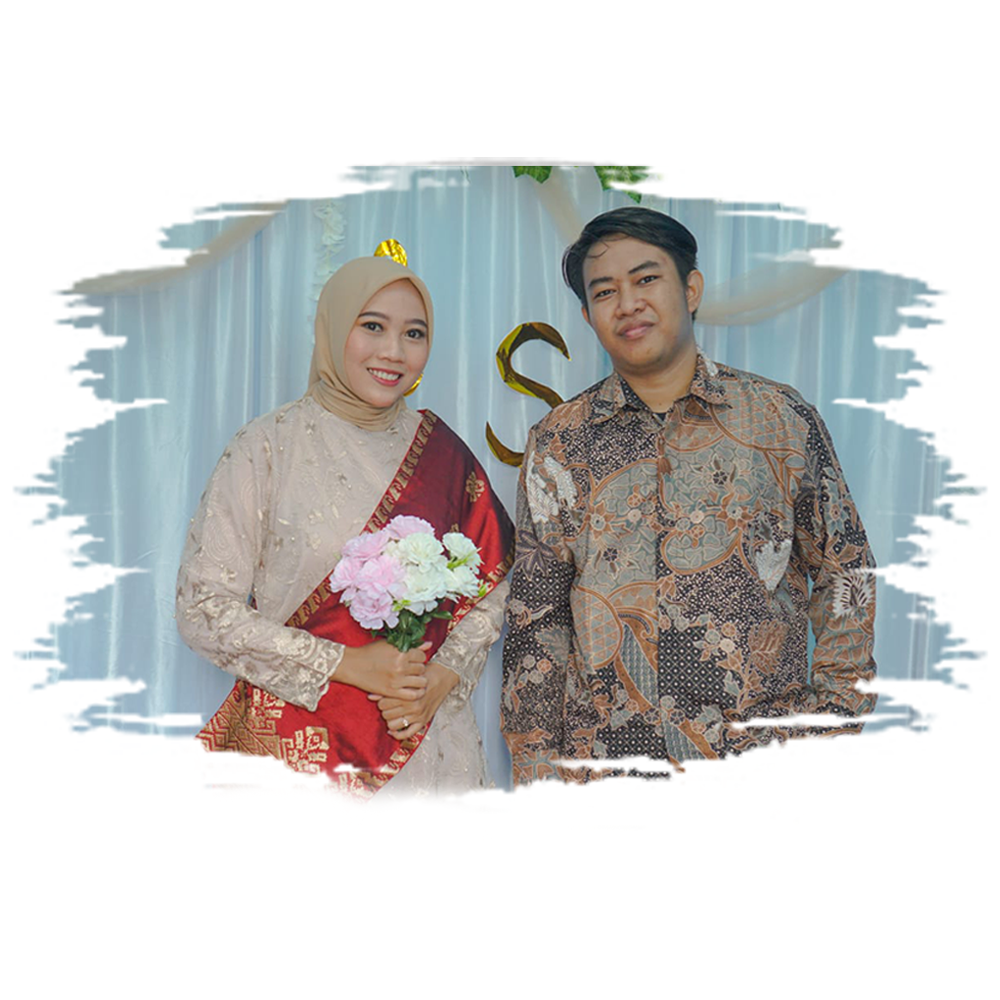
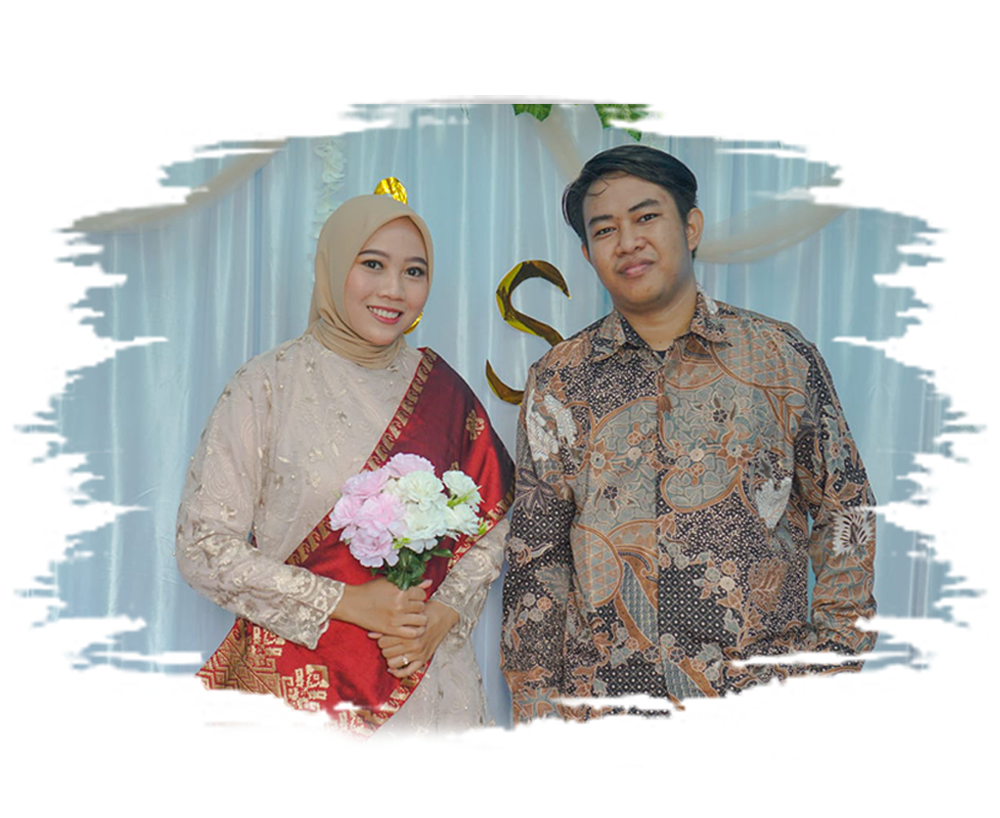
fix color

diff --git a/components/More.jsx b/components/More.jsx
@@ -4,6 +4,7 @@ import Image from "next/image"
 import { faGift, faClose, faCopy, faCreditCard, faMapLocation, faMap, } from "@fortawesome/free-solid-svg-icons"
 import { useState } from "react"
 import Comment from "./Comment"
+import DetailAcara from "./DetailAcara"
 
 export default function More(){
 
@@ -60,33 +61,9 @@ export default function More(){
         <div className='h-auto w-full sm:w-[540px] xl:w-4/12 bg-yellow-100 mt-2 flex flex-col items-center rounded-2xl pt-3 pb-11'>
 
             <Comment/>
+            <DetailAcara/>
             
-            <div className='h-[500px] w-11/12 rounded-lg mt-12 flex flex-col items-center px-5 shadow-lg relative'>
-                <div className='text-xl mt-9 z-10'>
-                    <FontAwesomeIcon icon={faMapLocation} className="fa-2xl"/>
-                </div>
-                <p className='font-bold font-qamila mt-4 z-10 text-3xl'>Detail Acara</p>
-                <p className='font-serif mt-2 z-10 text-2xl'>Minggu</p>
-                <p className='font-mono mt-4 z-10 text-3xl font-bold tanggal'>04</p>
-                <p className='font-serif mt-4 z-10 text-3xl font-semibold'>Desember 2022</p>
-                <p className='font-mono z-10 text-base'>PUKUL 11.00 WIB - SELESAI</p>
-                <p className='font-serif mt-4 z-10 text-3xl font-semibold'>Lokasi Acara </p>
-                <p className='text-base text-center leading-4 z-10'>Jl. Warujaya Kp. Sugutamu No.1 Rt. 02/ Rw. 022 Depok 2 Tengah 16411</p>
-                <motion.div className='w-[170px] h-[39px] bg-gray-500 mt-5 rounded-lg pl-3 flex items-center text-base text-white cursor-pointer z-10'
-                    animate={{ scale: .9 }}
-                    transition={{
-                    repeat: Infinity,
-                    repeatType: "reverse",
-                    duration: .8
-                    }}
-                >
-                    <a href="https://goo.gl/maps/1QRSyAexsJyXGRdJ9" target="_blank" rel="noopener noreferrer">
-                        <FontAwesomeIcon icon={faMap} className="fa-xl"/>
-                        &ensp; Lihat Alamat
-                    </a>
-                </motion.div>
-                <Image src="/images/bg.jpg" layout='fill' className='rounded-xl' alt="bg"/>
-            </div>
+            
 
 
             <div className='h-[350px] sm:h-[310px] w-11/12 rounded-lg mt-12 flex flex-col justify-center items-center px-5 shadow-lg relative space-y-4' id='gift'>
@@ -95,7 +72,7 @@ export default function More(){
                 </div>
                 <p className='font-bold text-xl z-10'>Kirim Hadiah</p>
                 <p className='mt-3 text-base text-center leading-4 z-10 px-10 sm:px-5'>Doa Restu Anda merupakan karunia yang sangat berarti bagi kami. Namun jika memberi adalah ungkapan tanda kasih Anda, Anda dapat memberi kado secara cashless.</p>
-                <motion.div className='w-[170px] h-[39px] bg-gray-500 rounded-lg pl-3 flex items-center text-base text-white cursor-pointer z-10'
+                <motion.div className='w-[170px] h-[39px] bg-[#048bc9] rounded-lg pl-3 flex items-center text-base text-white cursor-pointer z-10'
                     animate={{ scale: .9 }}
                     transition={{
                     repeat: Infinity,
@@ -112,11 +89,11 @@ export default function More(){
 
             <br></br>
 
-            <p className="text-center px-10 mt-4">
+            <p className="text-center px-10 mt-4 font-serif">
                 Atas kehadiran dan do’a restu dari bapak/ibu/saudara/I sekalian, kami mengucapkan Terima Kasih.
             </p>
 
-            <p className="text-center px-10 text-3xl font-monsieur font-medium mt-12">
+            <p className="text-center px-10 text-3xl font-monsieur font-medium mt-12 text-[#048bc9]">
                 Wassalamualaikum Wr. Wb.
             </p>
 <br></br>
@@ -126,7 +103,7 @@ export default function More(){
                 Kami yang Berbahagia.
             </p>
 <br></br>
-            <p className="text-center px-10 text-3xl font-qamila font-bold text-[#d106b2] scale-125">
+            <p className="text-center px-10 text-3xl font-qamila font-bold text-[#c904c0] scale-125 mb-10">
                 Syafiq & Ina
             </p>
             

diff --git a/components/Navbar.jsx b/components/Navbar.jsx
@@ -6,12 +6,12 @@ import { faHome, faCalendar, faGift, faUserFriends, faBookOpen } from "@fortawes
 export default function Navbar(){
 
     return (
-        <div className='h-auto w-full py-4 text-center fixed flex justify-center items-center bottom-0 z-20 overflow-x-hidden'>
-          <div className='w-[260px] h-[55px] bg-purple-400 flex justify-between items-center py-0 px-2 rounded-lg'>
+        <div className='h-auto w-full py-1 text-center fixed flex justify-center items-center bottom-0 z-20 overflow-x-hidden'>
+          <div className='w-[260px] h-[55px] flex justify-between items-center py-0 px-2 rounded-lg'>
             <Tooltip 
-              className="h-[39px] m-auto text-md flex items-center justify-center bg-pink-500 z-20"
+              className="h-[39px] m-auto text-md flex items-center justify-center bg-[#c9c204] z-20"
               content="Home" 
-              placement="top" 
+              placement="top"
               animate={{
                 mount: { scale: 1, y: 0 },
                 unmount: { scale: 0, y: 25 },
@@ -22,7 +22,7 @@ export default function Navbar(){
               </Button>
             </Tooltip>
             <Tooltip 
-              className="h-[39px] m-auto text-md flex items-center justify-center bg-pink-500 z-20"
+              className="h-[39px] m-auto text-md flex items-center justify-center bg-[#c9c204] z-20"
               content="Couple" 
               placement="top" 
               animate={{
@@ -34,7 +34,7 @@ export default function Navbar(){
               </Button>
             </Tooltip>
             <Tooltip 
-              className="h-[39px] m-auto text-md flex items-center justify-center bg-pink-500 z-20"
+              className="h-[39px] m-auto text-md flex items-center justify-center bg-[#c9c204] z-20"
               content="Calendar" 
               placement="top" 
               animate={{
@@ -46,7 +46,7 @@ export default function Navbar(){
               </Button>
             </Tooltip>
             <Tooltip 
-              className="h-[39px] m-auto text-md flex items-center justify-center bg-pink-500 z-20"
+              className="h-[39px] m-auto text-md flex items-center justify-center bg-[#c9c204] z-20"
               content="Galery" 
               placement="top" 
               animate={{
@@ -58,7 +58,7 @@ export default function Navbar(){
               </Button>
             </Tooltip>
             <Tooltip 
-              className="h-[39px] m-auto text-md flex items-center justify-center bg-pink-500 z-20"
+              className="h-[39px] m-auto text-md flex items-center justify-center bg-[#c9c204] z-20"
               content="Gift" 
               placement="top" 
               animate={{

diff --git a/components/Comment.jsx b/components/Comment.jsx
@@ -77,8 +77,17 @@ export default function Comment(){
     }   
 
     useEffect(function(){
+        if (kepada != null) {
+            setReceiver(kepada)
+        }
         axios.get("/paginate?page=1&page_size=10").then(res=> {
             setMessages(res.data)
+        })        
+        
+        axios.get("/status").then(res=> {
+            setPresent(res.data.present)
+            setNPresent(res.data.npresent)
+            setHesitant(res.data.hesitant)
         })        
     },[])
 
@@ -99,16 +108,14 @@ export default function Comment(){
         })
     }
         
-    useEffect(()=>{
-        if (kepada != null) {
-            setReceiver(kepada)
-        }
+    // useEffect(()=>{
+        
         // socketInitializer()
-    },[])
+    // },[])
 
     return (
         <div className='h-[1000px] w-11/12 rounded-lg mt-12 flex flex-col items-center shadow-lg relative pt-6 px-4'>
-                <p className='font-bold mt-4 z-10 text-3xl font-monsieur'>Wishes</p>
+                <p className='font-bold mt-4 z-10 text-3xl font-monsieur text-[#048bc9]'>Wishes</p>
                 <p className='font-serif mt-2 z-10 text-md text-center px-12'>Berikan Ucapan Terbaik untuk kedua Mempelai</p>
                 <div className=" w-full h-[750px] z-10 rounded-xl border-solid border-2 border-blue-200 mt-6 flex flex-col px-2 py-3">
                     <div className="flex w-full justify-center">
@@ -139,7 +146,7 @@ export default function Comment(){
                             <option value={1}>Hadir</option>
                             <option value={2}>Ragu</option>
                         </select>
-                        <button className="mt-3 py-1 rounded w-40 text-center bg-blue-600 text-white font-bold text-sm" onClick={submitComment}><FontAwesomeIcon icon={faChevronRight}/> Kirim</button>
+                        <button className="mt-3 py-1 rounded w-40 text-center bg-[#048bc9] text-white font-bold text-sm" onClick={submitComment}><FontAwesomeIcon icon={faChevronRight}/> Kirim</button>
                     </div>
 
                     <div className="w-full my-5 px-4 overflow-auto" id="comment">
@@ -169,7 +176,7 @@ export default function Comment(){
                         }
                     </div>
                 </div>
-                <motion.div className='w-[170px] h-[39px] bg-gray-500 mt-5 rounded-lg pl-3 flex items-center text-base text-white cursor-pointer z-10'
+                <motion.div className='w-[170px] h-[39px] bg-[#048bc9] mt-5 rounded-lg pl-3 flex items-center text-base text-white cursor-pointer z-10'
                     animate={{ scale: .9 }}
                     transition={{
                     repeat: Infinity,

diff --git a/pages/index.js b/pages/index.js
@@ -49,7 +49,7 @@ export default function Home() {
 
         function onScroll() {
           if (audio == null) {
-            // setAudio(new Audio("/music/song1.mp3"))          
+            setAudio(new Audio("/music/song1.mp3"))          
             setMuted(false)  
           }  
         }
@@ -70,21 +70,19 @@ export default function Home() {
           variants={cover_animate}
           initial="hidden"
           animate={load ? "hidden" : "show"}
-          className='w-full h-screen bg-black relative z-50 overflow-y-hidden flex flex-col items-center justify-center px-3 py-3'>
+          className='w-full h-screen bg-black relative z-50 overflow-y-hidden flex flex-col items-center justify-center px-3'>
               <Image src="/images/bg.jpg" layout='fill' alt='cover' className='opacity-80'/>
-            <p className='z-10 text-white text-xl font-bold -mt-10 sm:mt-0'>The Wedding Of</p>
-            <div className='-mt-6'>
+            <p className='z-10 text-white text-xl font-bold mt-5 md:mt-2'>The Wedding Of</p>
+            <div className='-mt-2'>
               <Image src="/images/main.png" width={350} height={350} alt='main' className='brightness-110' priority/>
             </div>
 
-          <p className='z-10 text-3xl text-center px-3 font-qamila text-pink-700 scale-150 -mt-10'>Ina & Syafiq</p>
+          <p className='z-10 text-3xl text-center px-3 font-qamila text-[#c904c0] scale-150 -mt-7'>Syafiq & Ina</p>
           <br></br>
-            <p className='z-10 text-white text-lg text-center px-20 leading-6 xl:mt-6'>Kepada Yth. Bapak/Ibu/Saudara/i</p>
-            <br></br>
+            <p className='z-10 text-white text-lg text-center px-20 leading-6 mt-2 xl:mt-6'>Kepada Yth. Bapak/Ibu/Saudara/i</p>
             <p className='z-10 text-white text-2xl font-bold text-center px-3 font-wedding'>{kepada}</p>
-            <br></br>
-            <p className='z-10 text-slate-600 text-sm font-bold text-center px-3'>*Mohon Maaf bila ada kesalahan penulisan nama dan gelar</p>
-            <motion.div className='w-[170px] h-[39px] bg-gray-500 mt-5 rounded-lg pl-3 flex items-center text-base text-white cursor-pointer z-10 pointer-events-auto'
+            <p className='z-10 text-slate-600 text-sm font-bold text-center px-3 mt-2'>*Mohon Maaf bila ada kesalahan penulisan nama dan gelar</p>
+            <motion.div className='w-[170px] h-[39px] bg-[#048bc9] my-4 rounded-lg pl-3 flex items-center text-base text-white cursor-pointer z-10 pointer-events-auto'
                 animate={{ scale: .9 }}
                 transition={{
                 repeat: Infinity,

diff --git a/components/Couple.jsx b/components/Couple.jsx
@@ -3,20 +3,20 @@ import Image from "next/image"
 export default function Couple(){
     return (
         <div className="h-[1050px] w-full sm:w-[540px] relative xl:w-4/12  z-10 rounded-xl -mt-2 flex flex-col items-center opacity-85" id='couple'>
-          <br></br><br></br>
-          <p className='font-monsieur z-10 mt-24 md:mt-20 text-2xl text-black'>Assalamualaikum Wr. Wb</p>
+          <br></br><br></br><br></br>
+          <p className='font-monsieur z-10 mt-24 sm:mt-16 md:mt-16 lg:mt-[70px] text-3xl text-[#048bc9]'>Assalamualaikum Wr. Wb</p>
           <p className='font-serif z-10 text-center px-24 mt-3 text-sm'>Kami bermaksud untuk menyelenggarakan acara pernikahan putra-putri kami:</p>
-          <div className="mt-0 sm:mt-7">
+          <div className="mt-0 sm:mt-6">
             <Image className='z-10 scale-75 sm:scale-100' width={180} height={180} src="/images/clipsyafiq.png" alt='couple'/>
           </div>
-          <p className='font-qamila z-10 drop-shadow-lg shadow-pink-500 text-2xl font-medium text-[#d106b2] -mt-3 sm:mt-2'>Abu Syafiq Arridho S.M</p>
+          <p className='font-qamila z-10 drop-shadow-lg shadow-pink-500 text-2xl font-medium text-[#c904c0] -mt-3 sm:mt-2'>Abu Syafiq Arridho S.M</p>
           <p className='font-serif z-10 drop-shadow-lg shadow-pink-500 px-16 text-center mt-2 sm:mt-5 text-sm'>Putra Pertama dari Ibu Jusmiati S.Ag</p>
           <p className='font-serif z-10 drop-shadow-lg shadow-pink-500 px-24 text-center text-sm'>& Bpk. Suyadi S.Ag M.M</p>
-          <p className='font-monsieur font-extrabold z-10 text-3xl text-[#d106b2] mt-4 sm:mt-7'>&</p>
-          <div className="sm:mt-6">
+          <p className='font-monsieur font-extrabold z-10 text-3xl text-[#c904c0] mt-4 sm:mt-7'>&</p>
+          <div className="sm:mt-5">
             <Image className='z-10 scale-75 sm:scale-100' width={180} height={180} src="/images/clipina.png" alt='couple'/>
           </div>
-          <p className='font-qamila z-10 drop-shadow-lg shadow-pink-500 text-2xl font-medium text-[#d106b2] -mt-3 sm:mt-2'>Ina Amanda</p>
+          <p className='font-qamila z-10 drop-shadow-lg shadow-pink-500 text-2xl font-medium text-[#c904c0] -mt-3 sm:mt-2'>Ina Amanda</p>
           <p className='font-serif z-10 drop-shadow-lg shadow-pink-500 text-sm px-16 text-center mt-2 sm:mt-5'>Putri Pertama dari Ibu Arnasih</p>
           <p className='font-serif z-10 drop-shadow-lg shadow-pink-500 text-sm px-20 text-center'>& Bpk. Aruman (Alm)</p>
           <Image className='rounded-3xl' src="/images/belakang5.png" layout='fill' alt='couple'/>

diff --git a/components/Hero.jsx b/components/Hero.jsx
@@ -26,18 +26,17 @@ export default function Hero({audio})
     }
 
     return (
-        <div className='h-screen w-full sm:w-[540px] md:w-[700px] xl:w-4/12 relative flex flex-col items-end justify-center px-3'>
+        <div className='h-screen w-full sm:w-[540px] xl:w-4/12 relative flex flex-col items-end justify-center px-3 space-y-1'>
             <Image className='rounded-3xl' src="/images/depan8.png" layout='fill' alt="cover_hero" />
             <p className="ml-auto mr-auto mt-6 text-xl font-bold z-10">The Wedding Of</p>
-            <div className="ml-auto mr-auto -mt-8 md:mt-3 lg:-mt-8 md:scale-150 lg:scale-100 flex flex-col justify-center items-center">
-                <Image src="/images/main.png" width={350} height={350} className="z-10 " alt="main" priority/>
+            <div className="ml-auto mr-auto -mt-8 md:mt-3 lg:-mt-8 md:scale-125 lg:scale-100 flex flex-col justify-center items-center">
+                <Image src="/images/main.png" width={340} height={340} className="z-10 " alt="main" priority/>
             </div>
-                <p className='ml-auto mr-auto z-10 text-3xl text-center px-3 font-qamila text-[#d106b2] scale-150 -mt-12 md:mt-1 lg:-mt-12'>Syafiq & Ina</p>
+                <p className='ml-auto mr-auto z-10 text-3xl text-center px-3 font-qamila text-[#c904c0] scale-150 -mt-12 lg:-mt-12'>Syafiq & Ina</p>
                 <br></br>
-                <br></br>
-                <p className="ml-auto mr-auto text-base z-10 md:-mt-3">Minggu, 04 Desember 2022</p>
-            <button className='w-9 h-9 bg-green-300 fixed bottom-24 rounded-full z-20 opacity-80' onClick={turnAudio}>
-                <FontAwesomeIcon icon={muted ? faVolumeMute: faVolumeUp} style={{ fontSize: 20, color: "green" }}/>
+                <p className="ml-auto mr-auto text-base z-10 md:-mt-4">Minggu, 04 Desember 2022</p>
+            <button className='w-9 h-9 bg-[#048bc9] fixed bottom-24 rounded-full z-20 opacity-80' onClick={turnAudio}>
+                <FontAwesomeIcon icon={muted ? faVolumeMute: faVolumeUp} style={{ fontSize: 20, color:"#e3db02" }}/>
             </button>
         </div>
     )

diff --git a/components/DetailAcara.js b/components/DetailAcara.js
@@ -1,0 +1,35 @@
+import { FontAwesomeIcon } from "@fortawesome/react-fontawesome"
+import { faMap, faMapLocation } from "@fortawesome/free-solid-svg-icons"
+import { motion } from "framer-motion"
+import Image from "next/image"
+
+export default function DetailAcara(){
+    return (
+        <div className='h-[500px] w-11/12 rounded-lg mt-12 flex flex-col items-center px-5 shadow-lg relative'>
+                <div className='text-xl mt-9 z-10'>
+                    <FontAwesomeIcon icon={faMapLocation} className="fa-2xl"/>
+                </div>
+                <p className='font-bold font-qamila mt-4 z-10 text-3xl'>Detail Acara</p>
+                <p className='font-serif mt-2 z-10 text-2xl'>Minggu</p>
+                <p className='font-mono mt-4 z-10 text-3xl font-bold tanggal'>04</p>
+                <p className='font-serif mt-4 z-10 text-3xl font-semibold'>Desember 2022</p>
+                <p className='font-mono z-10 text-base'>PUKUL 11.00 WIB - SELESAI</p>
+                <p className='font-serif mt-4 z-10 text-3xl font-semibold'>Lokasi Acara </p>
+                <p className='text-base text-center leading-4 z-10'>Jl. Warujaya Kp. Sugutamu No.1 Rt. 02/ Rw. 022 Depok 2 Tengah 16411</p>
+                <motion.div className='w-[170px] h-[39px] bg-[#048bc9] mt-5 rounded-lg pl-3 flex items-center text-base text-white cursor-pointer z-10'
+                    animate={{ scale: .9 }}
+                    transition={{
+                    repeat: Infinity,
+                    repeatType: "reverse",
+                    duration: .8
+                    }}
+                >
+                    <a href="https://goo.gl/maps/1QRSyAexsJyXGRdJ9" target="_blank" rel="noopener noreferrer">
+                        <FontAwesomeIcon icon={faMap} className="fa-xl"/>
+                        &ensp; Lihat Alamat
+                    </a>
+                </motion.div>
+                <Image src="/images/bg.jpg" layout='fill' className='rounded-xl' alt="bg"/>
+            </div>
+    )
+}

diff --git a/components/NavItem.jsx b/components/NavItem.jsx
@@ -8,8 +8,8 @@ export default function NavItem({to, icon}) {
         <Link
             to={to}
             smooth={true}
-            className='h-10 w-10 bg-red-200 rounded-md hover:bg-gray-800 flex items-center justify-center'>
-              <FontAwesomeIcon icon={icon} style={{fontSize:25, color:"salmon"}}/>
+            className='h-10 w-10 bg-[#048bc9] rounded-md hover:bg-gray-800 flex items-center justify-center'>
+              <FontAwesomeIcon icon={icon} style={{fontSize:25, color: "#e3db02"}}/>
         </Link>
     );
 }

diff --git a/components/Gallery.jsx b/components/Gallery.jsx
@@ -91,7 +91,7 @@ export default function Gallery() {
               }}
             />
         </AnimatePresence>
-        <div className="text-3xl text-[#d106b2] font-qamila z-10 pointer-events-none">
+        <div className="text-3xl text-[#c904c0] font-qamila z-10 pointer-events-none">
           Gallery
         </div>
         <div className="next" onClick={() => paginate(1)}>
